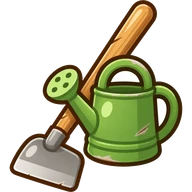
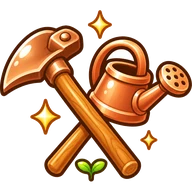
농장: 농기구 등급별 그림(상점·손에 든 도구·버튼), 물 주기 등급별 1/2/3고랑
Claude-Session: https://claude.ai/code/session_015t7mwg1NEPVKJN39Z7Zz4S

diff --git a/js/farm.js b/js/farm.js
@@ -17,8 +17,10 @@ const C = [
 export const CROPS = C.map(([id, name, t, min, seed, base]) => ({ id, name, t, ms: min * 60000, seed: Math.max(10, Math.round(seed / 3 / 5) * 5), base })); // 씨앗 하나 = 고랑 한 줄(밭 한 칸은 3줄)
 export const cropOf = id => CROPS.find(c => c.id === id);
 export const cropImg = id => `img/farm/crop/${id}.webp`;
-export const TOOLS = [null, { t: 1, name: '초급 농기구', price: 0, note: '호미·물뿌리개 · 처음부터 있어요' }, { t: 2, name: '중급 농기구', price: 1500, note: '쇠 호미·큰 물뿌리개 · 중급 작물을 심어요' }, { t: 3, name: '고급 농기구', price: 4000, note: '황금 낫·스프링클러 · 고급 작물을 심어요' }];
+export const TOOLS = [null, { t: 1, name: '초급 농기구', price: 0, note: '구리 호미·구리 물뿌리개 · 물은 한 번에 1고랑 · 처음부터 있어요' }, { t: 2, name: '중급 농기구', price: 1500, note: '은 호미·은 물뿌리개 · 물은 한 번에 2고랑 · 중급 작물을 심어요' }, { t: 3, name: '고급 농기구', price: 4000, note: '황금 낫·황금 스프링클러 · 물은 한 번에 밭 전체(3고랑) · 고급 작물을 심어요' }];
 export const TIER_NAME = ['', '초급', '중급', '고급'];
+// 농기구 그림: 상점은 세트(tool), 들고 다니는 것·잡초 베기는 hoe(고급은 낫), 물 주기는 can(고급은 스프링클러). 물 주기 한 번에 적시는 고랑 수 = 농기구 등급
+export const toolImg = (t, k = 'tool') => `img/farm/${k}${Math.max(1, Math.min(3, t || 1))}.webp`;
 export const DEEDS = [300, 700, 1400, 2000]; // 2~5번째 밭 땅 문서
 export const PLOTS = 5, YIELD_ROW = 2, ROT_MS = 3 * 86400000; // 고랑 한 줄에서 2개, 밭 한 칸(3줄)이면 6개
 export const GRADE_X = { S: 2, A: 1.5, B: 1.2, C: 1, F: 0 };
@@ -57,7 +59,9 @@ export function openFarm(o) {
   const plotEls = Array.from({ length: PLOTS }, (_, k) => { const e = h('button', { class: 'fm-plot', style: { left: plotX(k) + 'px', width: PW + 'px', height: PH + 'px' }, onClick: () => goPlot(k) }); world.append(e); return e; });
   const shop = h('button', { class: 'fm-shop', style: { left: HX + 'px', width: HW * 1.46 + 'px' }, onClick: () => { walkTo(HX + HW * 0.7, openShop); } }, h('img', { src: 'img/farm/hardware.webp', alt: '카피철물' }), h('b', { class: 'fm-shop-t' }, '카피철물'));
   const exitSign = h('button', { class: 'fm-exit', style: { left: WIDTH - Math.round(TW * 0.11) + 'px' }, onClick: () => close() }, '놀이터로 →');
-  const sc = o.scoot ? o.scoot() : null, meEl = h('div', { class: 'fm-me' + (sc ? ' scoot' : ''), html: sc || capy(ctx.capyOf(ctx.uid, { face: 'happy' })) }); // 스쿠터를 타고 왔으면 농장에서도 탄 채로, 1.8배 빠르게
+  const sc = o.scoot ? o.scoot() : null, meEl = h('div', { class: 'fm-me' + (sc ? ' scoot' : ''), html: sc || capy(ctx.capyOf(ctx.uid, { face: 'happy' })) }), heldEl = h('img', { class: 'fm-held', alt: '', hidden: !!sc });
+  meEl.append(heldEl); let heldUse = 0; const drawHeld = () => { if (!heldUse) heldEl.src = toolImg(tool(), 'hoe'); };
+  const useHeld = k => { clearTimeout(heldUse); heldEl.src = toolImg(tool(), k); heldEl.className = 'fm-held use ' + k; heldUse = setTimeout(() => { heldUse = 0; heldEl.className = 'fm-held'; drawHeld(); }, 1100); }; // 스쿠터를 타고 왔으면 농장에서도 탄 채로, 1.8배 빠르게
   world.append(shop, exitSign, meEl);
   const scroller = h('div', { class: 'fm-scroll' }, world);
   // 방향키(◀ ▶)로 걷는다. 밭 앞에 서면 그 밭이 열리고, 카피철물 앞에 서면 들어가기 버튼이 뜬다
@@ -106,7 +110,7 @@ export function openFarm(o) {
     drawSheet();
   }
   function listen() { if (off) off(); off = ctx.store.on(curRef(), v => { data = v || {}; if (who === ctx.uid) mine = data; drawPlots(); }); }
-  const offMine = ctx.store.on(myRef(), v => { mine = v || {}; if (who === ctx.uid) { data = mine; drawPlots(); } }); // 내 농기구·씨앗·헛간은 상대 농장 구경 중에도 알아야 한다
+  const offMine = ctx.store.on(myRef(), v => { mine = v || {}; drawHeld(); if (who === ctx.uid) { data = mine; drawPlots(); } }); // 내 농기구·씨앗·헛간은 상대 농장 구경 중에도 알아야 한다
 
   function walkTo(x, then) { me.tx = Math.max(30, Math.min(WIDTH - 30, x)); me.then = then; meEl.classList.add('walk'); meEl.classList.toggle('left', me.tx < me.x); }
   function goPlot(k) { walkTo(plotX(k) + PW / 2, () => { sel = k; pickRow = -1; drawPlots(); }); }
@@ -137,8 +141,8 @@ export function openFarm(o) {
       return h('div', { class: 'fm-rcard' }, h('span', { class: 'fm-rn' }, `${i + 1}`), h('img', { src: cropImg(c.id), alt: '' }), h('div', { class: 'fm-rbody' }, h('b', null, `${c.name} · ${rp ? (rotten(r, t) ? '시들었어요' : '수확!') : left(r.at + r.ms - t) + ' 남음'}`),
         rp ? h('small', null, rotten(r, t) ? '3일 넘게 안 거둬서 F' : `컨디션 ${Math.round(s * 100)}% · ${left(r.at + r.ms + ROT_MS - t)} 안에 거두기`) : [gauge('자람', Math.min(1, (t - r.at) / r.ms), 'grow'), gauge('컨디션', s, s >= 0.85 ? 'good' : s >= 0.6 ? 'ok' : 'bad'), gauge('물', Math.min(1, Math.max(0, r.wet - t) / (r.ms * 0.5)), 'water')])); };
     const acts = [];
-    if (growing.length) { acts.push(h('button', { class: 'btn' + (growing.some(r => dryNow(r, t)) ? ' primary' : ''), onClick: () => doWater(k) }, h('img', { class: 'fm-ic', src: 'img/farm/can.webp', alt: '' }), visit ? '물 주고 오기' : '물 주기'));
-      if (!visit && growing.some(r => weedNow(r, t))) acts.push(h('button', { class: 'btn primary', onClick: () => doWeed(k) }, h('img', { class: 'fm-ic', src: 'img/farm/sickle.webp', alt: '' }), '잡초 베기')); }
+    if (growing.length) { acts.push(h('button', { class: 'btn' + (growing.some(r => dryNow(r, t)) ? ' primary' : ''), onClick: () => doWater(k) }, h('img', { class: 'fm-ic', src: toolImg(tool(), 'can'), alt: '' }), (visit ? '물 주고 오기' : '물 주기') + (tool() >= 3 ? ' (밭 전체)' : ` (${tool()}고랑)`)));
+      if (!visit && growing.some(r => weedNow(r, t))) acts.push(h('button', { class: 'btn primary', onClick: () => doWeed(k) }, h('img', { class: 'fm-ic', src: toolImg(tool(), 'hoe'), alt: '' }), '잡초 베기')); }
     if (ripeRows.length && !visit) acts.push(h('button', { class: 'btn primary', onClick: () => doHarvest(k) }, `🧺 수확하기 (${ripeRows.length}고랑)`));
     rc(sheet, closeB, h('b', null, `${k + 1}번 밭`), ...rows.map(rowCard),
       h('p', { class: 'dim fm-tip' }, `물은 한 번 주면 자라는 시간의 절반 동안 버텨요(물 주기는 밭 전체에). 고랑마다 잡초가 한 번 나요${visit ? '(잡초는 밭 주인만 벨 수 있어요)' : ''}. 컨디션 85% 이상 A급(가끔 S), 60% 이상 B급, 그 아래 C급, 다 자란 뒤 3일 넘게 안 거두면 F.`),
@@ -147,9 +151,13 @@ export function openFarm(o) {
   const setRows = (k, rows) => ctx.store.set(`${curRef()}/plots/${k}`, rows.some(Boolean) ? { rows: Object.fromEntries(rows.map((r, i) => [i, r]).filter(([, r]) => r)) } : null).catch(() => {});
   async function doPlant(k, i, c) { const t = now(), n = (mine.seeds || {})[c.id] || 0; if (n <= 0) return; sfx('pop'); const rows = rowsOf(k); rows[i] = plant(c.id, t);
     await ctx.store.update(myRef(), { [`seeds/${c.id}`]: n - 1 >= 1 ? n - 1 : null }).catch(() => {}); await setRows(k, rows); pickRow = -1; toast(`${c.name}을(를) ${i + 1}번째 고랑에 심었어요. 물도 줬어요 💧`, 1800); }
-  async function doWater(k) { const t = now(), rows = rowsOf(k).map(r => (live(r) && !ripe(r, t) ? water(r, t) : r)); sfx('splash'); await setRows(k, rows);
-    if (who !== ctx.uid) { ctx.store.set(`farm/${who}/note`, { by: ctx.uid, at: t, k }).catch(() => {}); toast(`${ctx.nameOf(who)}네 ${k + 1}번 밭에 물을 줬어요 💧`, 2000); } else toast('물을 줬어요 💧', 1200); }
-  async function doWeed(k) { const t = now(), rows = rowsOf(k).map(r => (live(r) && weedNow(r, t) ? weed(r, t) : r)); sfx('tock'); await setRows(k, rows); toast('잡초를 베었어요 🌿', 1200); }
+  async function doWater(k) { const t = now(), cur = rowsOf(k), n = Math.min(3, tool());
+    // 농기구 등급만큼 고랑을 적신다: 물이 마른 고랑부터, 그다음 가장 먼저 마를 고랑부터
+    const order = cur.map((r, i) => i).filter(i => live(cur[i]) && !ripe(cur[i], t)).sort((a, b) => (cur[a].wet || 0) - (cur[b].wet || 0)), pick = order.slice(0, n);
+    if (!pick.length) return; const rows = cur.map((r, i) => (pick.includes(i) ? water(r, t) : r)); sfx('splash'); useHeld('can'); await setRows(k, rows);
+    const more = order.length - pick.length, what = n >= 3 ? '밭 전체에' : `${pick.map(i => i + 1).join('·')}번째 고랑에`;
+    if (who !== ctx.uid) { ctx.store.set(`farm/${who}/note`, { by: ctx.uid, at: t, k }).catch(() => {}); toast(`${ctx.nameOf(who)}네 ${k + 1}번 밭 ${what} 물을 줬어요 💧`, 2000); } else toast(`${what} 물을 줬어요 💧${more > 0 ? ` (남은 고랑 ${more}줄은 한 번 더)` : ''}`, 1600); }
+  async function doWeed(k) { const t = now(), rows = rowsOf(k).map(r => (live(r) && weedNow(r, t) ? weed(r, t) : r)); sfx('tock'); useHeld('hoe'); await setRows(k, rows); toast('잡초를 베었어요 🌿', 1200); }
   async function doHarvest(k) { const t = now(), rows = rowsOf(k), got = [], add = {}; const patch = {};
     rows.forEach((r, i) => { if (!live(r) || !ripe(r, t)) { if (r && r.lost && ripe(r, t)) rows[i] = null; return; } const g = gradeOf(r, t); got.push([r.c, g]); rows[i] = null;
       if (g !== 'F') { const key = `${r.c}|${g}`; add[key] = (add[key] || 0) + YIELD_ROW; } });
@@ -178,7 +186,7 @@ export function openFarm(o) {
             h('img', { src: cropImg(c.id), alt: '' }), h('b', null, c.name), h('small', null, `${c.seed.toLocaleString('ko-KR')}코인 · 고랑 1줄 · ${left(c.ms)}`), h('small', null, `하나 ${c.base}~${c.base * 2}코인${n ? ` · 가진 씨앗 ${n}` : ''}`)); }))); });
       if (tab === 'tool') TOOLS.slice(1).forEach(tl => { const have = tool() >= tl.t;
         rows.push(h('button', { class: 'so-row big' + (have ? ' off' : '') , onClick: () => have ? toast('이미 가지고 있어요') : tl.t > tool() + 1 ? toast(`${TOOLS[tl.t - 1].name}부터 사야 해요`) : buy(tl.price, { tool: tl.t }, `${tl.name}를 샀어요! ${TIER_NAME[tl.t]} 작물을 심을 수 있어요`) },
-          h('span', { class: 'so-rodic' }, h('img', { src: `img/farm/tool${tl.t}.webp`, alt: '', style: { width: '48px' } })), h('b', null, tl.name), h('small', null, have ? '가지고 있어요 · 한 번 사면 계속 써요' : `${tl.price.toLocaleString('ko-KR')}코인 · ${tl.note}`))); });
+          h('span', { class: 'so-rodic' }, h('img', { src: toolImg(tl.t), alt: '', style: { width: '48px' } })), h('b', null, tl.name), h('small', null, have ? '가지고 있어요 · 한 번 사면 계속 써요' : `${tl.price.toLocaleString('ko-KR')}코인 · ${tl.note}`))); });
       if (tab === 'deed') { const n = data.open || 1; rows.push(h('p', { class: 'dim center' }, `지금 열린 밭 ${n} / ${PLOTS}칸 · 밭은 순서대로 열려요`));
         DEEDS.forEach((pr, i) => { const k = i + 1, have = n > k, next = n === k;
           rows.push(h('button', { class: 'so-row big' + (have || !next ? ' off' : ''), onClick: () => have ? toast('이미 연 밭이에요') : !next ? toast('앞의 밭부터 열어야 해요') : buy(pr, { open: k + 1 }, `${k + 1}번 밭이 열렸어요! 🌱`) },

diff --git a/css/app.css b/css/app.css
@@ -1818,3 +1818,10 @@ img.kb-sic { width: 30px; height: 30px; object-fit: contain; display: block; mar
 .sc-bagb { display: flex; flex-direction: column; gap: 4px; }
 .so-ridebtn { background: #E6F4DA !important; border-color: #3E9A50 !important; color: #24622F; font-weight: 900; animation: rideP 1s ease-in-out infinite; } @keyframes rideP { 50% { transform: scale(1.04); } }
 .rw-sc { display: block; width: 160px; margin: 0 auto 8px; filter: drop-shadow(0 0 12px #FFD23F); animation: scPop .6s ease-out; }
+
+/* 농장: 들고 다니는 농기구(등급별 그림). 물 줄 땐 물뿌리개로 바꿔 기울이고, 잡초 벨 땐 휘두른다 */
+.fm-held { position: absolute; width: 34px; height: 34px; right: -12px; bottom: 10px; transform: rotate(-12deg); transform-origin: 30% 90%; pointer-events: none; filter: drop-shadow(0 2px 2px rgba(0, 0, 0, .3)); }
+.fm-me.left .fm-held { right: auto; left: -12px; transform: scaleX(-1) rotate(-12deg); }
+.fm-me.scoot .fm-held { display: none; }
+.fm-held.use.can { animation: fmPour 1.1s ease-in-out; } @keyframes fmPour { 20%, 80% { rotate: 35deg; translate: 4px -6px; } }
+.fm-held.use.hoe { animation: fmSwing .36s ease-in-out 3; } @keyframes fmSwing { 50% { rotate: 55deg; } }
